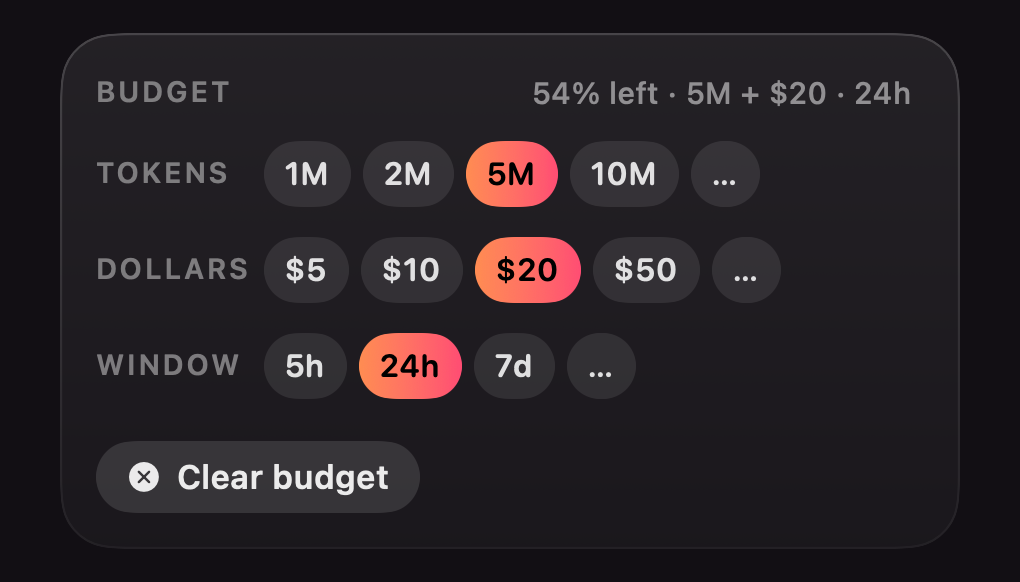
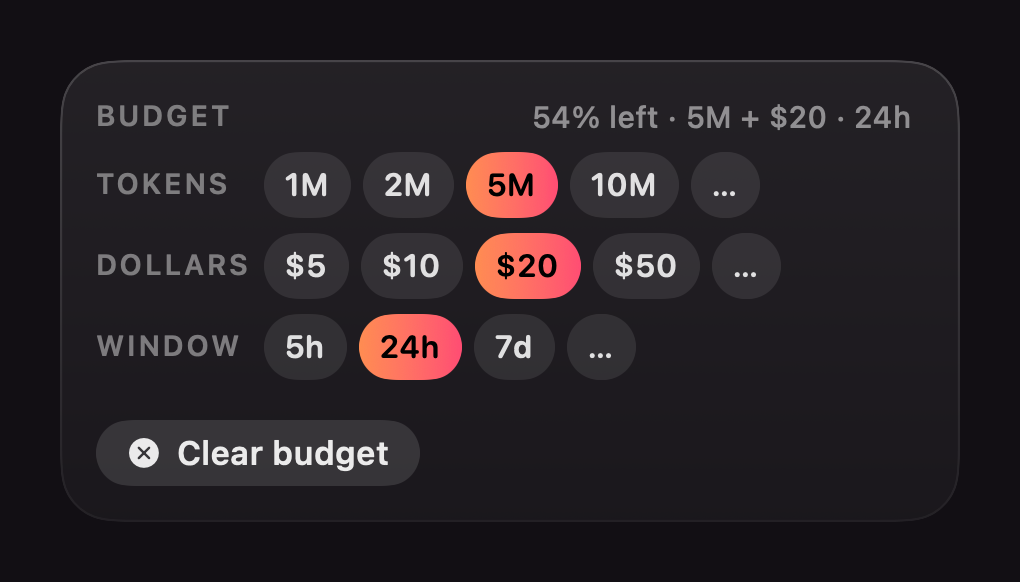
Budget page: fit the tile (header and Clear button were clipped)
The page was taller than the tile's content area, so the scroll view
centred it and cut the header and the Clear button. Rows and spacing are
tighter, and each page is now exactly the tile's size. The tile's page is
held in NotchState so a debug hook can show it.

diff --git a/Sources/Perch/ExpandedView.swift b/Sources/Perch/ExpandedView.swift
@@ -208,7 +208,6 @@ struct ClaudeTile: View {
     @Environment(ClaudeModel.self) private var claude
     @Environment(AppSettings.self) private var settings
     // `State` written out: the command-line SDK has no @State macro plugin.
-    private let _page = State(initialValue: "stats")
     @Environment(NotchState.self) private var state
     @Environment(\.snapshotMode) private var snapshot
 
@@ -239,16 +238,16 @@ struct ClaudeTile: View {
                     }
                     ScrollView(.horizontal) {
                         LazyHStack(spacing: 0) {
-                            statsPage(s, theme: theme).containerRelativeFrame(.horizontal).id("stats")
-                            BudgetPage().containerRelativeFrame(.horizontal).id("budget")
+                            statsPage(s, theme: theme).containerRelativeFrame([.horizontal, .vertical]).id("stats")
+                            BudgetPage().containerRelativeFrame([.horizontal, .vertical]).id("budget")
                         }
                         .scrollTargetLayout()
                     }
                     .scrollTargetBehavior(.paging)
                     .scrollIndicators(.never)
-                    .scrollPosition(id: Binding<String?>(get: { _page.wrappedValue }, set: { if let v = $0 { _page.wrappedValue = v } }))
-                    PageDots(pages: [("stats", "Usage"), ("budget", "Budget")], selected: _page.wrappedValue) { id in
-                        withAnimation(.notch) { _page.wrappedValue = id }
+                    .scrollPosition(id: Binding<String?>(get: { state.claudePage }, set: { if let v = $0 { state.claudePage = v } }))
+                    PageDots(pages: [("stats", "Usage"), ("budget", "Budget")], selected: state.claudePage) { id in
+                        withAnimation(.notch) { state.claudePage = id }
                     }
                     .offset(x: 2, y: 4)
                 }

diff --git a/Sources/Perch/BudgetPage.swift b/Sources/Perch/BudgetPage.swift
@@ -14,13 +14,13 @@ struct BudgetPage: View {
 
     var body: some View {
         let b = claude.stats.budget
-        VStack(alignment: .leading, spacing: 6) {
+        VStack(alignment: .leading, spacing: 4) {
             HStack(spacing: 6) {
                 Text("BUDGET").label().help("The budget shared by every Claude Code session (token-meter's /token-budget all)")
                 Spacer(minLength: 0)
                 Text(summary(b)).font(.system(size: 10, weight: .medium)).foregroundStyle(.white.opacity(0.5)).lineLimit(1)
             }
-            .frame(height: 16)
+            .frame(height: 14)
             row("TOKENS", presets: tokenPresets, label: { TokenFormat.short($0) }, current: b?.tokens,
                 help: "A token limit for every Claude Code session together. Click the lit one to remove it.",
                 custom: { claude.promptBudget(.tokens) }) { v in claude.setBudget(tokens: v == b?.tokens ? .remove : .set(v)) }
@@ -39,7 +39,7 @@ struct BudgetPage: View {
                     Text("Clear budget").font(.system(size: 11, weight: .semibold))
                 }
                 .foregroundStyle(.white.opacity(hasBudget ? 0.9 : 0.35))
-                .padding(.horizontal, 10).frame(height: 24)
+                .padding(.horizontal, 10).frame(height: 22)
                 .background(Capsule().fill(.white.opacity(hasBudget ? 0.12 : 0.05)))
             }
             .buttonStyle(PressScale())
@@ -76,7 +76,7 @@ struct BudgetPage: View {
             Chip(text: "…", lit: false, theme: settings.theme, help: "Another value") { custom() }
             Spacer(minLength: 0)
         }
-        .frame(height: 26)
+        .frame(height: 23)
         .help(help)
     }
 }

diff --git a/Sources/Perch/NotchController.swift b/Sources/Perch/NotchController.swift
@@ -209,6 +209,7 @@ final class NotchController {
                         return f[i] == "-" ? .remove : (Ledger.parseAmount(f[i]).map { .set($0) } ?? .keep)
                     }
                     self.env.claude.setBudget(tokens: limit(0), usd: limit(1), windowHours: f.count > 2 ? Ledger.parseWindowHours(f[2]) : nil)
+                case _ where cmd.hasPrefix("claudepage:"): self.env.state.claudePage = String(cmd.dropFirst(11))
                 case "budgetclear": self.env.claude.clearBudget()
                 case "toastaction": self.env.state.toast?.action?()
                 case "budgetstate":

diff --git a/Sources/Perch/NotchState.swift b/Sources/Perch/NotchState.swift
@@ -73,6 +73,8 @@ final class NotchState {
     @ObservationIgnored var musicFrame: CGRect = .zero
     /// The Claude tile's rectangle, likewise (it pages between usage and budget settings).
     @ObservationIgnored var claudeFrame: CGRect = .zero
+    /// Which page the Claude tile shows: "stats" or "budget".
+    var claudePage = "stats"
 
     /// Set by the controller: views call these instead of changing `mode` themselves.
     @ObservationIgnored var expandAction: () -> Void = {}
